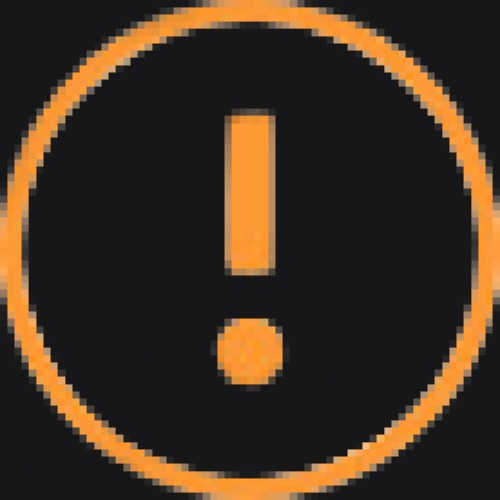
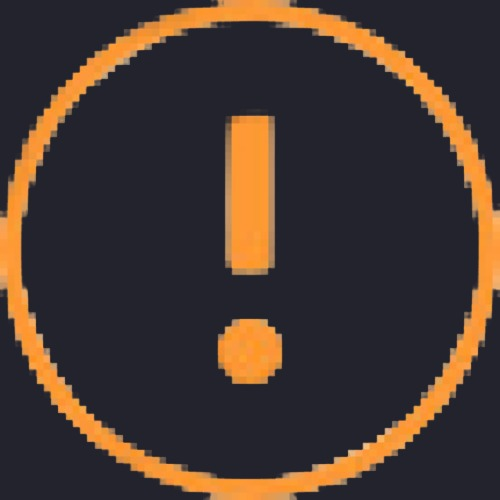
se agrega cambios en el background(degradado) y se arregla un poco el resposive

diff --git a/styles.css b/styles.css
@@ -9,6 +9,21 @@
     grid-template-columns: 1fr 1fr 1fr; 
 }
 
+.topbar::before{
+    content: "";
+    width: 80vw;
+    height: 50vh;
+    background: linear-gradient(125deg,rgba(241, 42, 42, .9) 25%,#bf1ceb 45%,#06ad57 65%,rgb(6, 173, 87,.6) 75%) no-repeat;
+    border-radius: 50%;
+    filter: blur(100px) opacity(.4);
+    position: absolute;
+    inset: 0;
+    margin: auto;
+    margin-top: 0;
+    z-index: -1;
+}
+
+
 body{
     font-family: 'Roboto', "Open Sans", Arial, sans-serif;
     background: #171719;
@@ -111,21 +126,21 @@ body{
     top: 300px; 
     left: 610px; 
     position: absolute;
-    background: #323236;   
+    background: #23232d;   
     border-radius: 5px; 
 }
 
 .subtitulo-header h3{
     position: absolute;
     left: 60px;
-    top: 23px;
+    top: 20px;
     font-size: 16px;
 } 
 
 .subtitulo-header img{
     position: absolute;
     width: 25px;
-    top: 20px;
+    top: 17px;
     left: 25px;;
 }    
 
@@ -360,6 +375,7 @@ svg{
 
 .social-media{
     display: flex;
+    width: 200px 200px 200px;
 }
 
 .social-media a, .deezer-logo-footer{
@@ -394,6 +410,111 @@ svg{
 }
 
 .images-footer{
-    margin-right: 530px;
+    width: 250px;
+    margin-right: 530px
+}
+
+
+@media (max-width: 1890px){
+    .offers{
+        position: relative;
+        right: 100px;
+    }
+
+    .subtitulo-header{
+        top: 130px;
+    }
+    .legal{
+        left: 500px;
+    }
+    
+    .navigation-footer, .social-media{
+        padding: 60px 50px 50px 100px;
+    }
+
+    .navigation-menus :not(:last-child){
+        width: 190px;
+        margin: 0 120px 0 0;
+    }
+
+    .images-footer{
+        width: 250px;
+        margin-right: 300px
+    }
+
+    .logo-footer{
+        margin-right: 650px;
+    }
+    
+    .logo-footer p{
+        position: absolute;
+        top: 650px;
+        right: 680px;
+        font-size: 65px;
+        font-weight: 600;
+    }
+    
+    .logo-footer img{
+        position: absolute;
+        top: 665px;
+        right: 860px;
+        width: 60px;
+        height: 60px;
+    }
+}
+
+@media (max-width: 1280px){
+    .logo-topbar p{
+        right: 80px;
+    }
+    
+    .logo-topbar img{
+        right: 190px;
+    }
+    .offers{
+        position: relative;
+        right: 300px;
+    }
+
+    .subtitulo-header{
+        top: 130px;
+    }
+    .legal{
+        left: 300px;
+    }
+    
+    .navigation-footer, .social-media{
+        padding: 60px 50px 50px 70px;
+    }
+
+    .navigation-menus :not(:last-child){
+        width: 190px;
+        margin: 0 50px 0 0;
+    }
+
+    .images-footer{
+        width: 250px;
+        margin-right: 50px
+    }
+
+    .logo-footer{
+        margin-right: 600px;
+    }
+    
+    .logo-footer p{
+        position: absolute;
+        top: 666px;
+        right: 500px;
+        font-size: 65px;
+        font-weight: 600;
+    }
+    
+    .logo-footer img{
+        position: absolute;
+        top: 680px;
+        right: 680px;
+        width: 60px;
+        height: 60px;
+    }
 }
 
